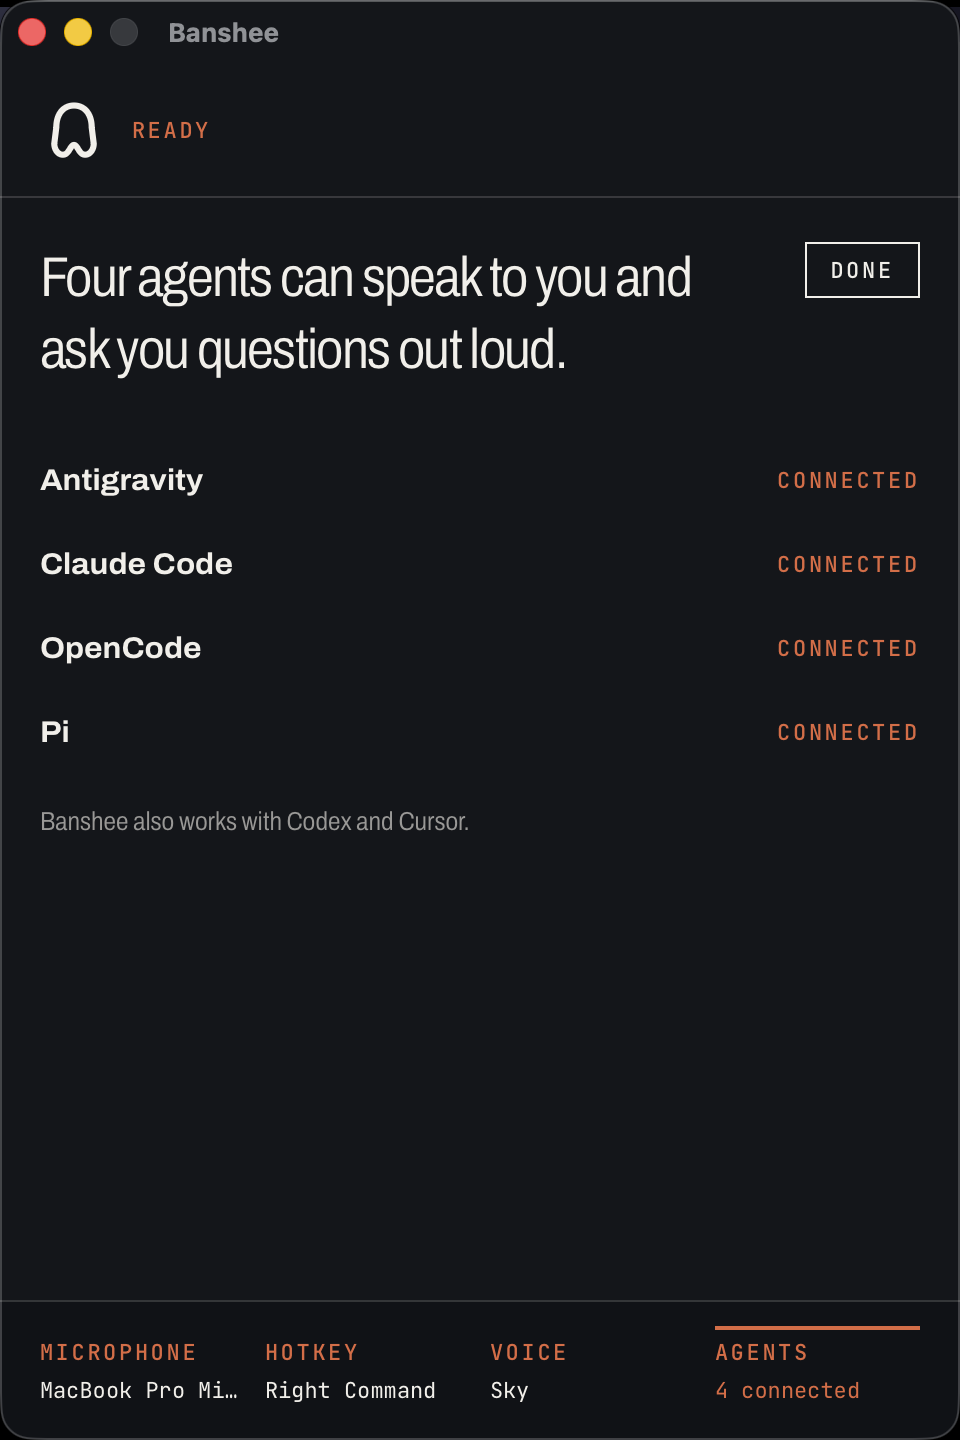
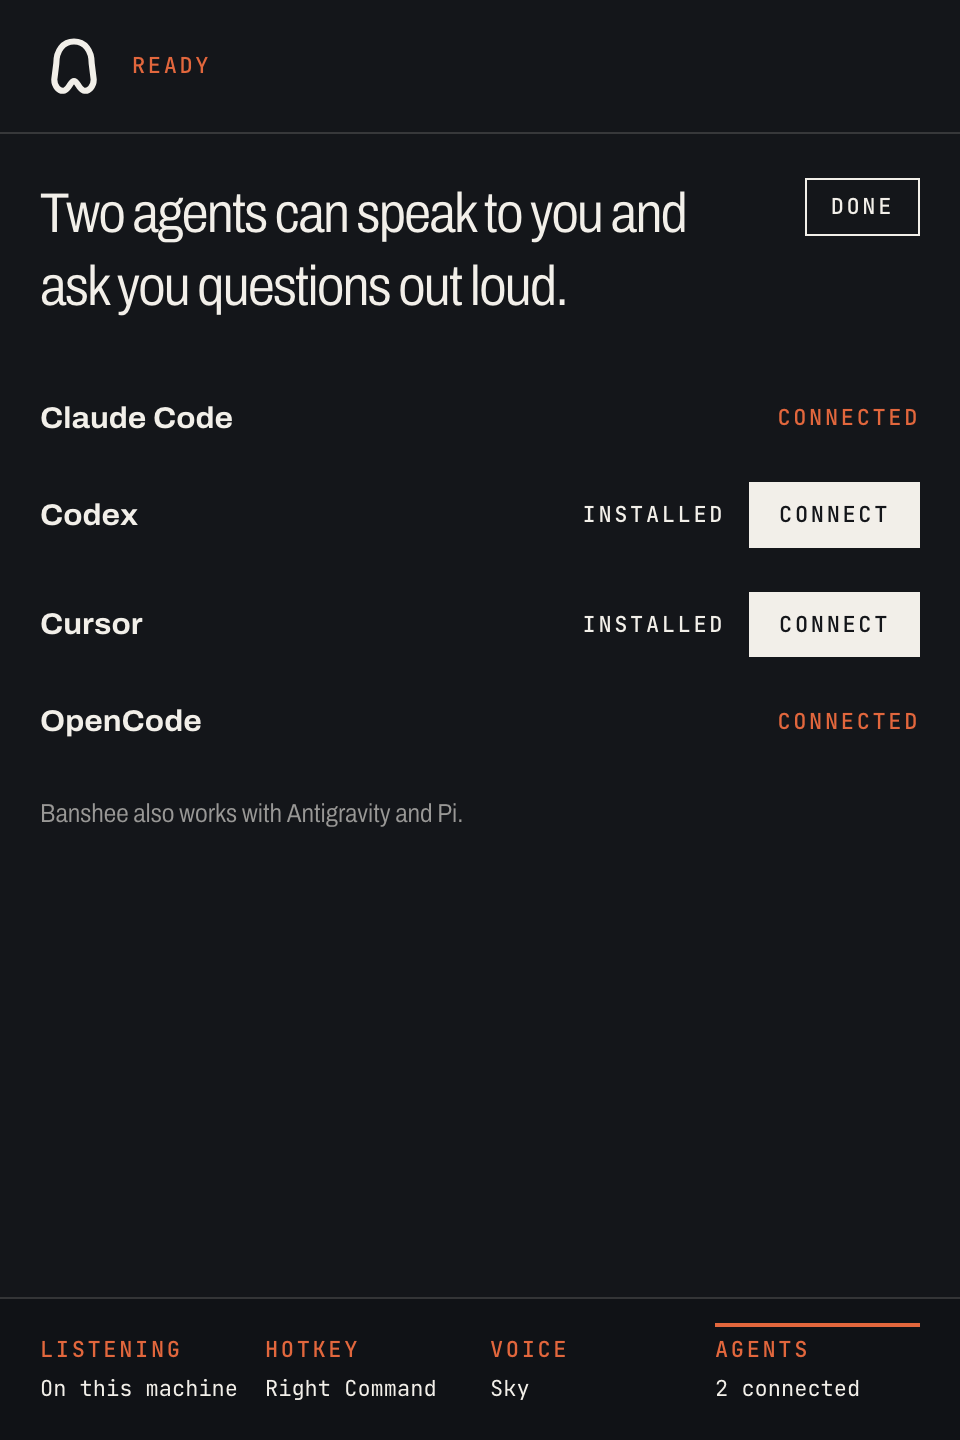
docs: the readme leads macOS with the download and connects agents from the window

diff --git a/README.md b/README.md
@@ -51,25 +51,79 @@ banshee connect claude
 Apple Silicon, with the window.
 
 ```bash
-brew install --cask yamanahlawat/banshee/banshee
-xattr -dr com.apple.quarantine /Applications/Banshee.app
+curl -fsSL https://github.com/yamanahlawat/banshee/releases/latest/download/Banshee.app.tar.gz | tar -xzf - -C /Applications
 open /Applications/Banshee.app
 ```
 
-- The `xattr` line is needed until Banshee is notarised, and Homebrew marks every upgrade too. The `banshee` command offers to clear it when you next run it. [A direct download](docs/install.md#macos-without-homebrew) needs none.
+- The downloaded app needs no `xattr` line. Run the same `curl` again to update it.
+- No admin account? Unpack into `~/Applications`.
+- The `banshee` command is `/Applications/Banshee.app/Contents/MacOS/banshee`. [Link it](docs/install.md#macos-without-homebrew) onto your PATH to run it short.
 - The window asks before it downloads the models (~860 MB), and lets you pick the speech model first.
 - Approve the **Microphone** and **Accessibility** grants. Without them Banshee cannot record or type.
 - **Hold `Right Option`**, speak, let go. The text is typed into the app you are focused on.
 - `banshee status` names the fix, and changes nothing itself.
 
-Then give your coding agent a voice:
+Or with Homebrew, which puts `banshee` on your PATH:
 
 ```bash
-banshee connect claude
+brew install --cask yamanahlawat/banshee/banshee
+xattr -dr com.apple.quarantine /Applications/Banshee.app
+open /Applications/Banshee.app
 ```
 
-- Restart the agent. It speaks its decisions and asks you questions out loud.
-- [Every other agent](#connect-your-coding-agent)
+- The `xattr` line is needed until Banshee is notarised, and Homebrew marks every upgrade too. The `banshee` command offers to clear it when you next run it.
+
+Then give your coding agent a voice: [connect it](#connect-your-coding-agent).
+
+## Connect your coding agent
+
+This is the step that closes the voice loop: the agent speaks, and you answer out loud.
+
+**In the window,** open **Agents**. Each agent installed on this machine has a row:
+
+1. Press **Connect**. The window shows the exact change it will write.
+2. Press **Apply**.
+3. Restart the agent. It speaks its decisions and asks you questions out loud.
+
+- The Claude Code hook needs `jq` on your PATH.
+- Antigravity, Claude Code, OpenCode and Pi are verified on a real install. Codex and Cursor follow their published formats, and wait for a report.
+- Pi has its own extension API, so it gets a [native extension](integrations/pi) instead.
+
+<p align="center"><img src="assets/agents.png" width="360" alt="The Agents panel: Claude Code and OpenCode are connected, and Codex and Cursor are installed with a Connect button beside each."></p>
+
+**From the terminal,** the same work:
+
+```bash
+banshee connect            # which agents are installed, and which are connected
+banshee connect antigravity # Antigravity IDE, agy CLI and SDK: the MCP server in ~/.gemini/config/mcp_config.json
+banshee connect claude      # Claude Code: the MCP server and a stop hook that refuses to end a turn with no spoken status
+banshee connect codex       # Codex CLI: the MCP server in ~/.codex/config.toml
+banshee connect cursor      # Cursor: the MCP server in ~/.cursor/mcp.json
+banshee connect opencode    # OpenCode: the MCP server
+banshee connect pi          # Pi: the native extension
+```
+
+- Each command shows the exact change, and asks before it writes. Restart the tool after.
+- `banshee-mcp-shim` is the MCP stdio server behind this.
+- Any other MCP host takes the same shape. Use the shim's full path if the bare name does not resolve:
+
+```json
+{
+  "mcpServers": {
+    "banshee": {
+      "command": "banshee-mcp-shim"
+    }
+  }
+}
+```
+
+It exposes three tools:
+
+| Tool                | What the agent does with it                                       |
+| ------------------- | ----------------------------------------------------------------- |
+| `speak_status`      | Say something aloud, for decisions made and work finished         |
+| `ask_user`          | Ask a question aloud, then wait for and return your spoken answer |
+| `listen_for_prompt` | Pick up anything you've said since it last checked                |
 
 ## The keys
 
@@ -102,53 +156,12 @@ The defaults. `banshee bind hyprland` writes the Linux column:
 - Waiting for you means an agent asked a question and holds for your answer.
 - The states differ by shape, never by colour alone, and macOS tints the template image.
 
-## Connect your coding agent
-
-```bash
-banshee connect            # which agents are installed, and which are connected
-banshee connect antigravity # Antigravity IDE, agy CLI and SDK: the MCP server in ~/.gemini/config/mcp_config.json
-banshee connect claude      # Claude Code: the MCP server and a stop hook that refuses to end a turn with no spoken status
-banshee connect codex       # Codex CLI: the MCP server in ~/.codex/config.toml
-banshee connect cursor      # Cursor: the MCP server in ~/.cursor/mcp.json
-banshee connect opencode    # OpenCode: the MCP server
-banshee connect pi          # Pi: the native extension
-```
-
-- Each command shows the exact change, and asks before it writes. Restart the tool after.
-- The Claude Code hook needs `jq` on your PATH.
-- Antigravity, Claude Code, OpenCode and Pi are verified on a real install. Codex and Cursor follow their published formats, and wait for a report.
-- Pi has its own extension API, so it gets a [native extension](integrations/pi) instead.
-- The window's Agents panel does the same work.
-
-<p align="center"><img src="assets/agents.png" width="360" alt="The Agents panel, listing Antigravity, Claude Code, OpenCode and Pi as connected, and noting that Banshee also works with Codex and Cursor."></p>
-
-- `banshee-mcp-shim` is the MCP stdio server behind this.
-- Any other MCP host takes the same shape. Use the shim's full path if the bare name does not resolve:
-
-```json
-{
-  "mcpServers": {
-    "banshee": {
-      "command": "banshee-mcp-shim"
-    }
-  }
-}
-```
-
-It exposes three tools:
-
-| Tool                | What the agent does with it                                       |
-| ------------------- | ----------------------------------------------------------------- |
-| `speak_status`      | Say something aloud, for decisions made and work finished         |
-| `ask_user`          | Ask a question aloud, then wait for and return your spoken answer |
-| `listen_for_prompt` | Pick up anything you've said since it last checked                |
-
 ## Other ways to install
 
 |                       | With the desktop window                                                                                           | Terminal only                                                           |
 | --------------------- | ----------------------------------------------------------------------------------------------------------------- | ----------------------------------------------------------------------- |
 | Linux (x86_64, arm64) | [from source](docs/linux.md#building-the-desktop-window)                                                          | the installer above, or [Homebrew](docs/install.md#linux-with-homebrew) |
-| macOS (Apple Silicon) | [the cask](docs/install.md#macos-with-the-window), or [a direct download](docs/install.md#macos-without-homebrew) | [the formula](docs/install.md#macos-terminal-only)                      |
+| macOS (Apple Silicon) | [a direct download](docs/install.md#macos-without-homebrew), or [the cask](docs/install.md#macos-with-the-window) | [the formula](docs/install.md#macos-terminal-only)                      |
 | Windows               | not yet                                                                                                           | not yet                                                                 |
 
 - [Build from source](docs/install.md#from-source), [set up from the terminal](docs/install.md#set-up-from-the-terminal), or [remove any install](docs/install.md#uninstall)
